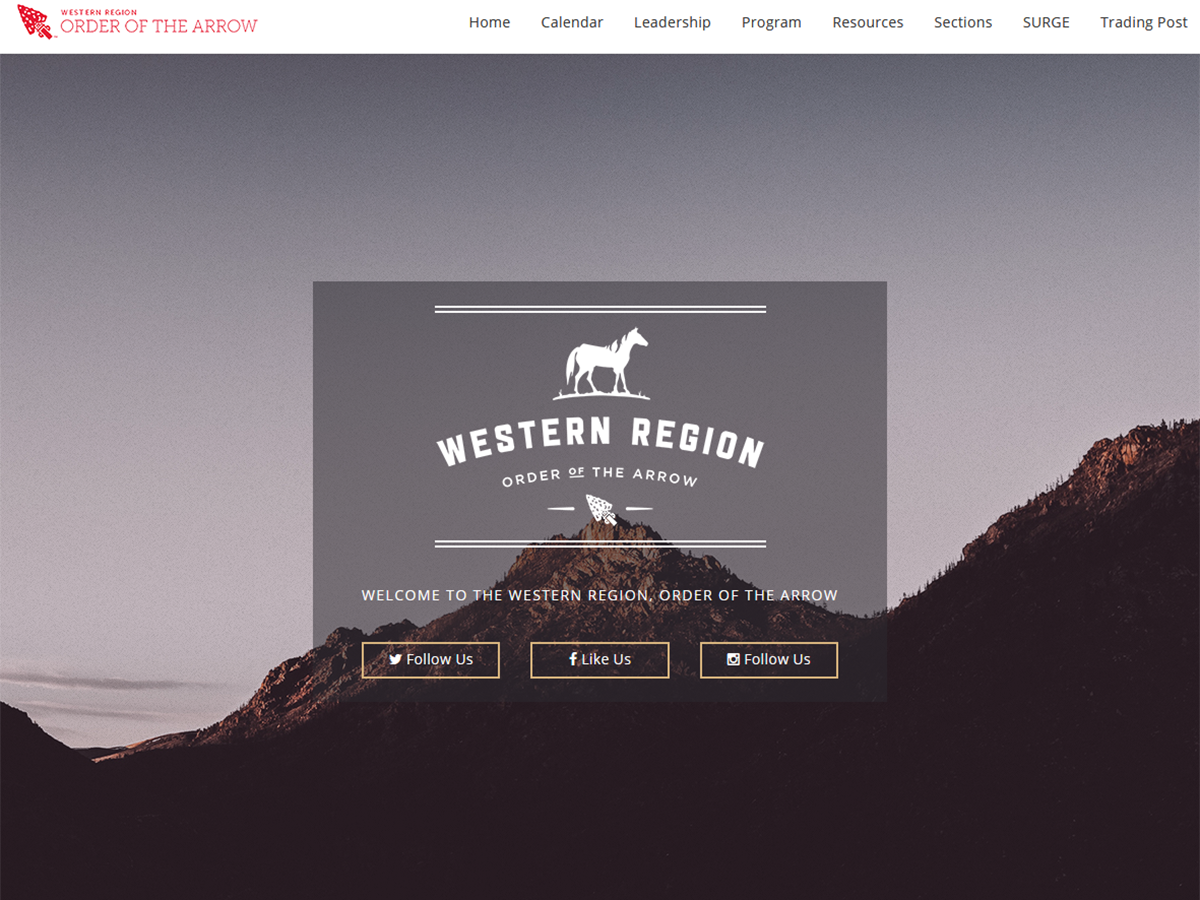
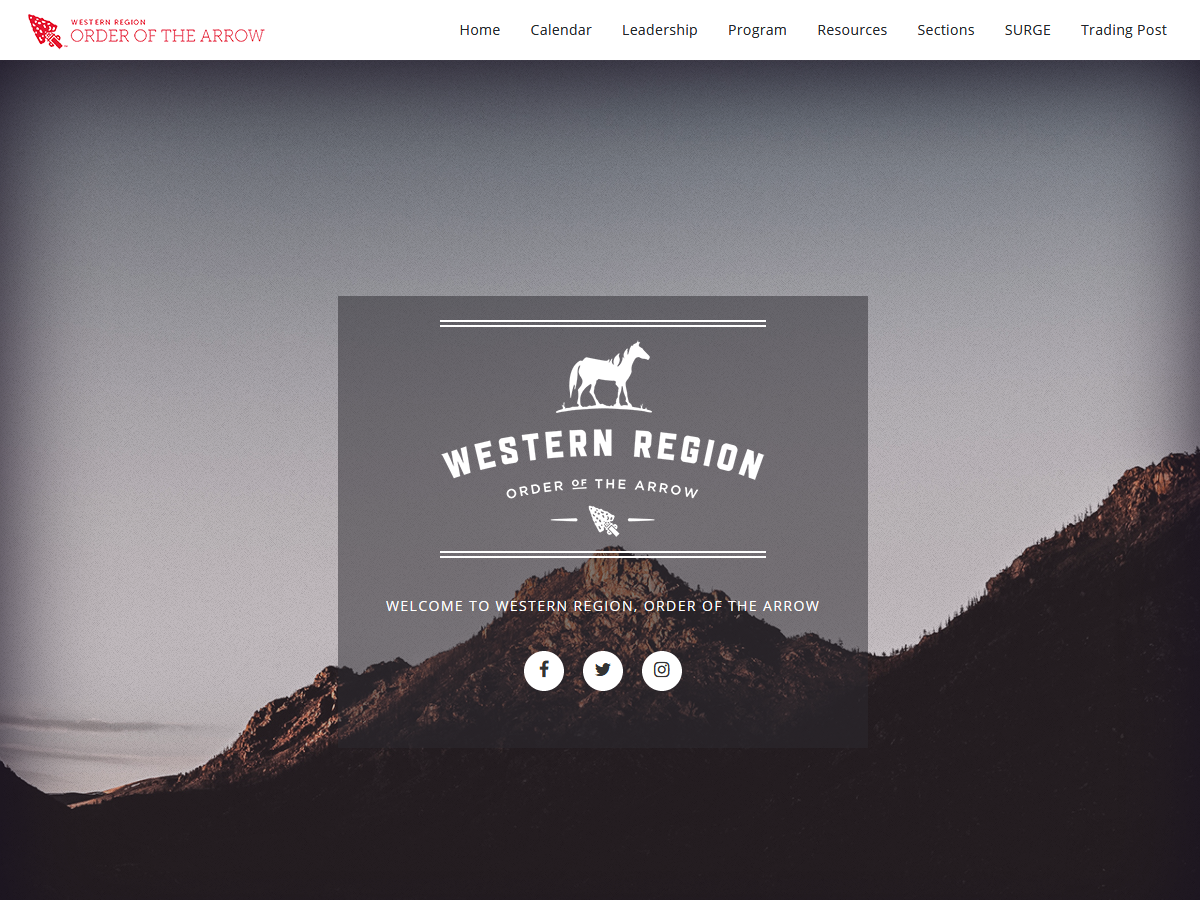
Screenshot Update
Update theme screenshot and navbar bugfix for 1200px width

Changed region(s): [[0.0, 0.0, 1.0, 0.9022]]

diff --git a/style.css b/style.css
@@ -522,9 +522,9 @@ a.banner {
   padding: 0px 10px 0px 10px;
 }
 
-@media screen and (min-width: 1200px) {
+@media screen and (min-width: 1199px) {
 	.navbar-light .container {
-		max-width: 1200px;
+		max-width: 1199px;
 	}
 }
 
@@ -581,7 +581,7 @@ a.banner {
 	text-indent: -14px;
   }
   
-@media screen and (max-width: 1200px) {
+@media screen and (max-width: 1199px) {
   .navbar-light .container #navbar {
 	display:none;
     height: 100%;

diff --git a/functions/login.php b/functions/login.php
@@ -32,6 +32,9 @@
 					if($theme_version == $current_version) {
 						$message = "You are running the current version of the theme <i>$theme_version</i>";
 					}
+					else if($theme_version=='WR_Child') {
+						$message = "You are running the current version of the theme <i>$current_version</i>";
+					}
 					else {
 						$message = "<h2 style=\"background-color:rgb(128, 0, 0); color:white; padding:15px;\">An update is available for your theme. <a href=\"https://github.com/OAWest/wp-theme\" target=\"_blank\" style=\"color: gold;text-decoration: none;\">Version $current_version</a></h2>";
 					}

diff --git a/README.md b/README.md
@@ -6,6 +6,8 @@ Welcome to the public repository for the Western Region, Order of the Arrow Word
 
 2019.01.05
 - Update reminder on administrative dashboard
+- Update theme screenshot
+- Bug Fix - width 1200px navbar
 
 [View More](https://github.com/OAWest/wp-theme/README_changes.md)
 
